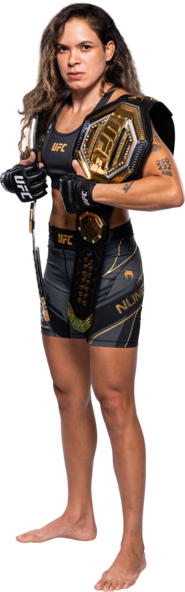
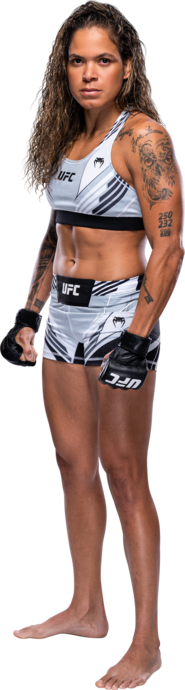
UFC 324: Gaethje vs. Pimblett
UFC 324: Gaethje vs. Pimblett
Database Update

diff --git a/pages/octagoniq.html b/pages/octagoniq.html
@@ -963,36 +963,35 @@
 
     <div id="myModal" class="modal">
         <div class="modal-content">
+            <p>Select a Bout (UFC 324: Gaethje vs. Pimblett):</p>
+            <button id="fight1">Justin Gaethje vs. Paddy Pimblett</button>
+            <button id="fight2">Kayla Harrison vs. Amanda Nunes</button>
+            <button id="fight3">Sean O'Malley vs. Song Yadong</button>
+            <button id="fight4">Waldo Cortes Acosta vs. Derrick Lewis</button>
+            <button id="fight5">Arnold Allen vs. Jean Silva</button>
+            <button id="fight6">Natalia Silva vs. Rose Namajunas</button>
+            <button id="fight7">Umar Nurmagomedov vs. Deiveson Figueiredo</button>
+            <button id="fight8">Ateba Gautier vs. Andrey Pulyaev</button>
+            <button id="fight9">Michael Johnson vs. Alexander Hernandez</button>
+            <button id="fight10">Nikita Krylov vs. Modestas Bukauskas</button>
+            <button id="fight11">Alex Perez vs. Charles Johnson</button>
+            <button id="fight12">Josh Hokit vs. Denzel Freeman</button>
+            <button id="fight13">Ricky Turcios vs. Cameron Smotherman</button>
             <p>Select a Bout (UFC 323: Dvalishvili vs. Yan 2):</p>
-            <button id="fight1">Merab Dvalishvili vs. Petr Yan</button>
-            <button id="fight2">Alexandre Pantoja vs. Joshua Van</button>
-            <button id="fight3">Brandon Moreno vs. Tatsuro Taira</button>
-            <button id="fight4">Henry Cejudo vs. Payton Talbott</button>
-            <button id="fight5">Jan Blachowicz vs. Bogdan Guskov</button>
-            <button id="fight6">Grant Dawson vs. Manuel Torres</button>
-            <button id="fight7">Terrance McKinney vs. Chris Duncan</button>
-            <button id="fight8">Maycee Barber vs. Karine Silva</button>
-            <button id="fight9">Nazim Sadykhov vs. Fares Ziam</button>
-            <button id="fight10">Marvin Vettori vs. Brunno Ferreira</button>
-            <button id="fight11">Edson Barboza vs. Jalin Turner</button>
-            <button id="fight12">Iwo Baraniewski vs. Ibo Aslan</button>
-            <button id="fight13">Mansur Abdul-Malik vs. Antonio Trocoli</button>
-            <button id="fight14">Muhammad Naimov vs. Mairon Santos</button>
-            <p>Select a Bout (UFC Fight Night: Tsarukyan vs. Hooker):</p>
-            <button id="fight1">Arman Tsarukyan vs. Dan Hooker</button>
-            <button id="fight2">Belal Muhammad vs. Ian Machado Garry</button>
-            <button id="fight3">Volkan Oezdemir vs. Alonzo Menifield</button>
-            <button id="fight4">Jack Hermansson vs. Myktybek Orolbai</button>
-            <button id="fight5">Waldo Cortes-Acosta vs. Shamil Gaziev</button>
-            <button id="fight6">Tagir Ulanbekov vs. Kyoji Horiguchi</button>
-            <button id="fight7">Bogdan Grad vs. Luke Riley</button>
-            <button id="fight8">Nicolas Dalby vs. Saygid Izagakhmaev</button>
-            <button id="fight9">Alex Perez vs. Asu Almabayev</button>
-            <button id="fight10">Abdul Rakhman Yakhyaev vs. Rafael Cerquiera</button>
-            <button id="fight11">Bekzat Almakhan vs. Aleksandre Topuria</button>
-            <button id="fight12">Ismail Naurdiev vs. Ryan Loder</button>
-            <button id="fight13">Nurullo Aliev vs. Shem Rock</button>
-            <button id="fight14">Marek Bujlo vs. Denzel Freeman</button>
+            <button id="fight14">Merab Dvalishvili vs. Petr Yan</button>
+            <button id="fight15">Alexandre Pantoja vs. Joshua Van</button>
+            <button id="fight16">Brandon Moreno vs. Tatsuro Taira</button>
+            <button id="fight17">Henry Cejudo vs. Payton Talbott</button>
+            <button id="fight18">Jan Blachowicz vs. Bogdan Guskov</button>
+            <button id="fight19">Grant Dawson vs. Manuel Torres</button>
+            <button id="fight20">Terrance McKinney vs. Chris Duncan</button>
+            <button id="fight21">Maycee Barber vs. Karine Silva</button>
+            <button id="fight22">Nazim Sadykhov vs. Fares Ziam</button>
+            <button id="fight23">Marvin Vettori vs. Brunno Ferreira</button>
+            <button id="fight24">Edson Barboza vs. Jalin Turner</button>
+            <button id="fight25">Iwo Baraniewski vs. Ibo Aslan</button>
+            <button id="fight26">Mansur Abdul-Malik vs. Antonio Trocoli</button>
+            <button id="fight27">Muhammad Naimov vs. Mairon Santos</button>
             <span class="close">&times;</span>
         </div>
     </div>
@@ -2099,15 +2098,19 @@
             const openModalBtn = document.getElementById("nextEventBtn");
             const closeModalSpan = document.querySelector(".close");
             const cancelButton = document.getElementById("cancelButton");
+            const closeModal = () => {
+                modal.style.display = "none";
+            };
             openModalBtn.addEventListener("click", () => {
                 modal.style.display = "block";
             });
-            closeModalSpan.onclick = cancelButton.onclick = () => {
-                modal.style.display = "none";
-            };
+            closeModalSpan.onclick = closeModal;
+            if (cancelButton) {
+                cancelButton.onclick = closeModal;
+            }
             window.onclick = (event) => {
                 if (event.target === modal) {
-                    modal.style.display = "none";
+                    closeModal();
                 }
             };
             const fightButtons = document.querySelectorAll('#myModal button[id^="fight"]');